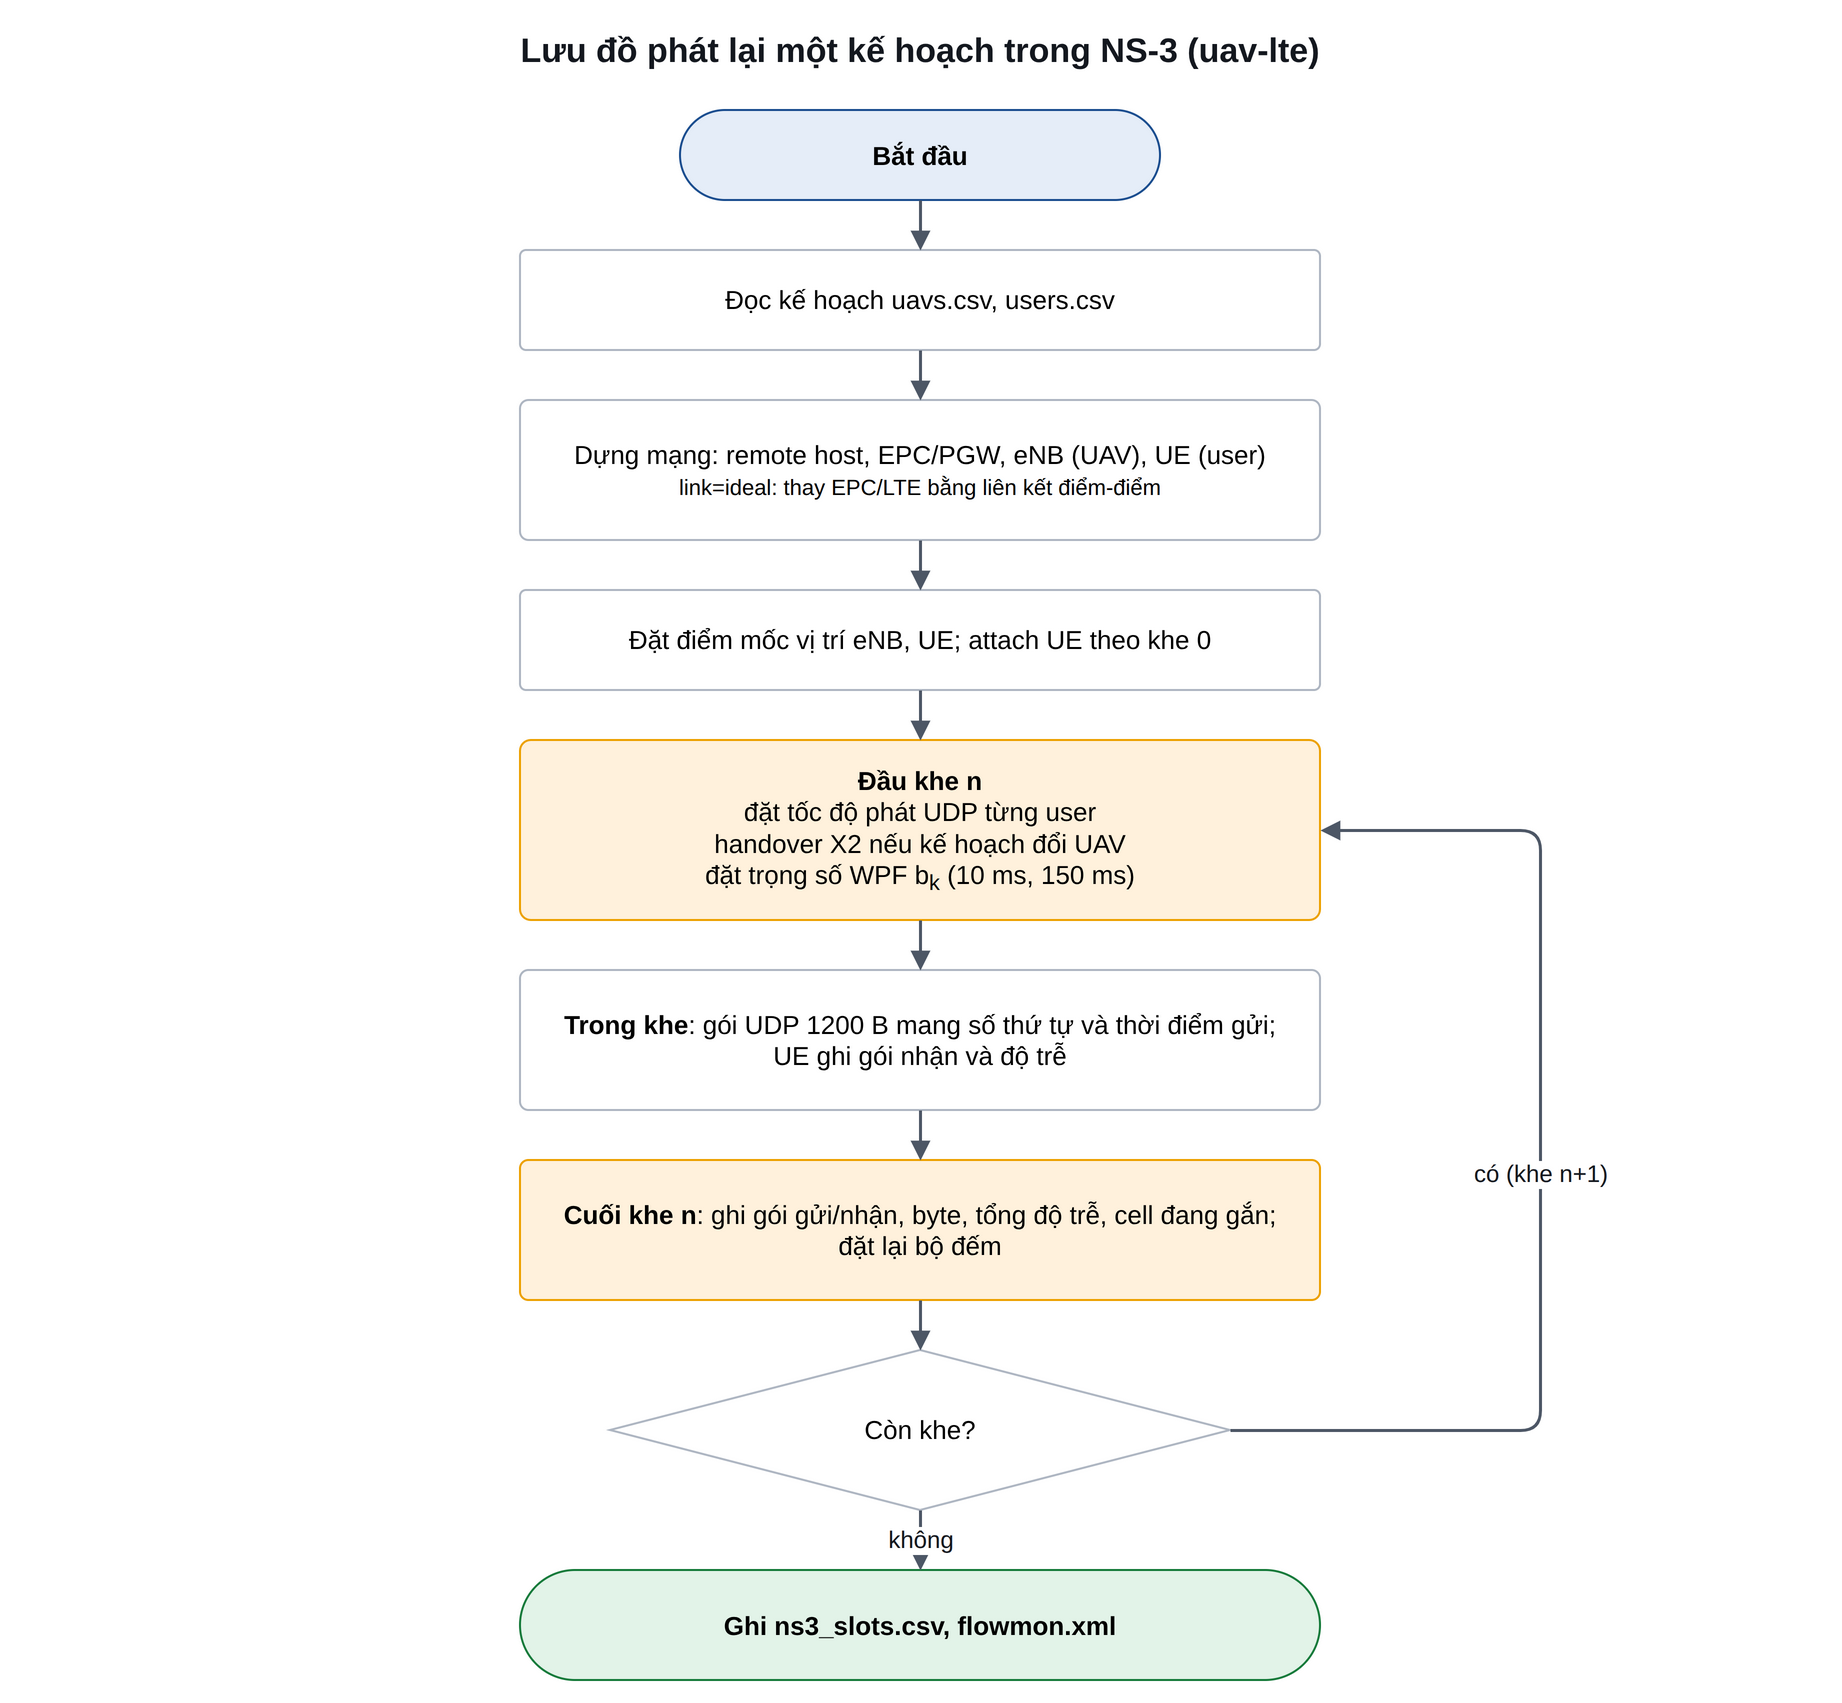
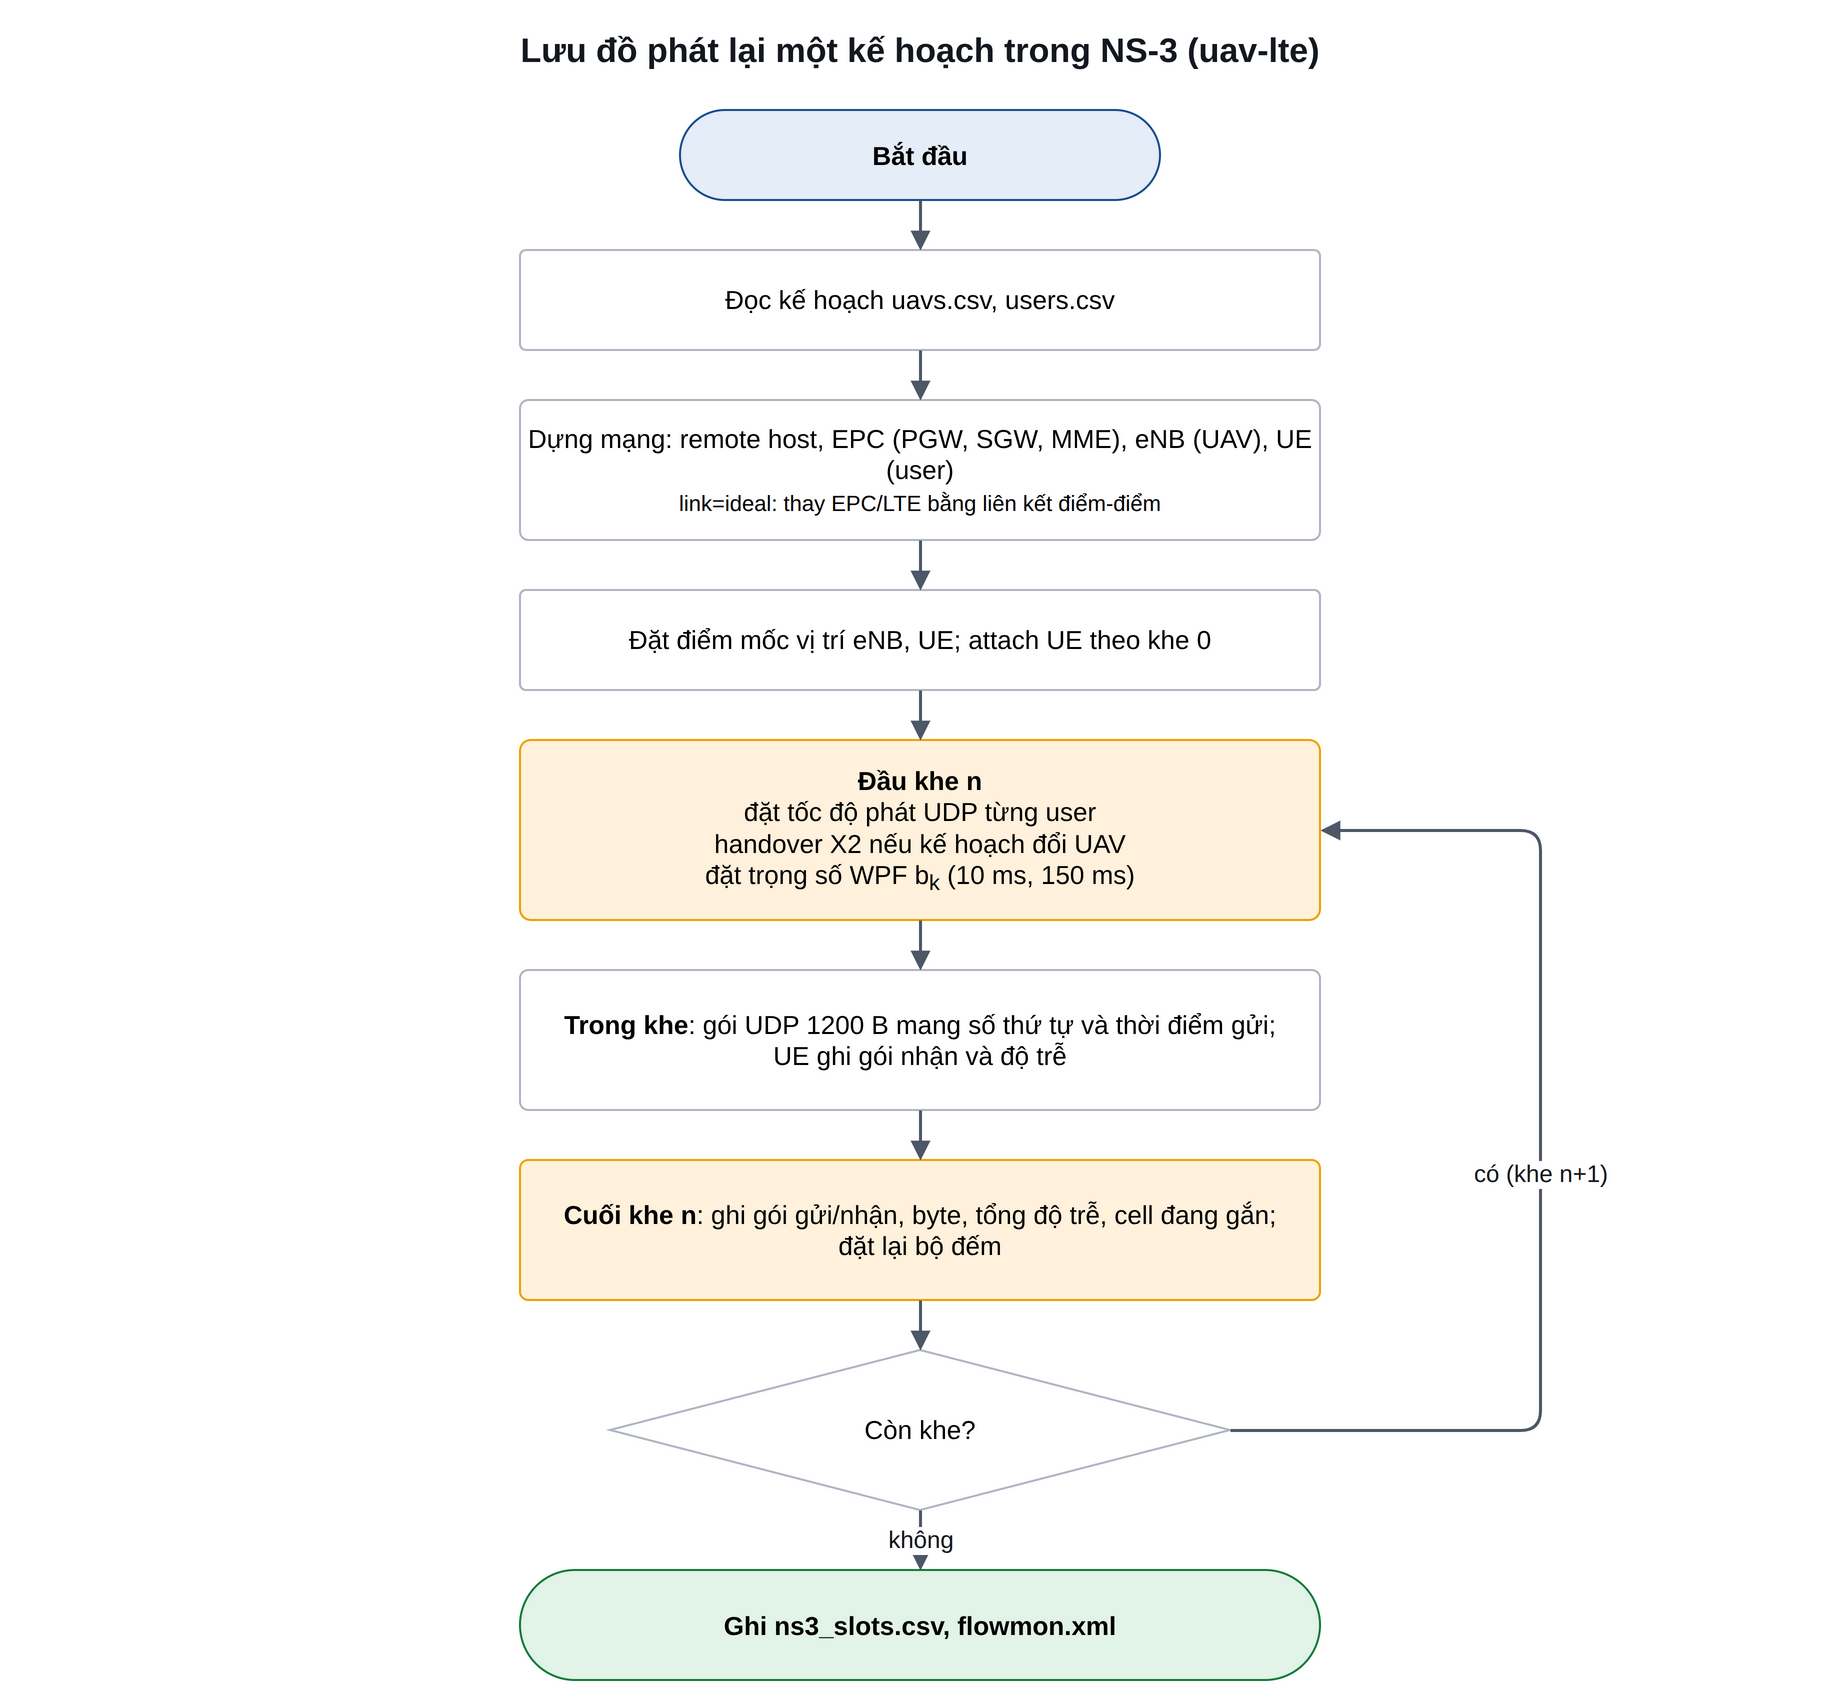
Report: center on calib-ifair; fix E6 metric; EPC nodes
- Retitle and reframe chapters 2, 6 and 7 around calib-ifair as the main
  contribution, with the NS-3 validation as supporting evidence
- E6 recomputed with the same per-slot min-throughput metric as E2/E10/E11:
  maxmin +16-18% (hover), +1-11% (kmeans), 18/18 pairs, matches theory;
  note the per-user-mean metric used in the design docs
- Describe EPC as PGW, SGW and MME; redraw protocol-stack and replay
  diagrams

Changed region(s): [[0.2785, 0.249, 0.7117, 0.3112]]

diff --git a/docs/figures/make_diagrams.py b/docs/figures/make_diagrams.py
@@ -177,7 +177,7 @@ d = D("phat_lai_ns3", 900, 860)
 d.text(0, 5, 900, 30, "Lưu đồ phát lại một kế hoạch trong NS-3 (uav-lte)", 17, bold=True)
 a0 = d.box(330, 50, 240, 45, "Bắt đầu", fill="#e5edf8", stroke=NAVY, style="rounded=1;arcSize=50;", bold=True)
 a1 = d.box(250, 120, 400, 50, "Đọc kế hoạch uavs.csv, users.csv")
-a2 = d.box(250, 195, 400, 70, "Dựng mạng: remote host, EPC/PGW, eNB (UAV), UE (user)<br>"
+a2 = d.box(250, 195, 400, 70, "Dựng mạng: remote host, EPC (PGW, SGW, MME), eNB (UAV), UE (user)<br>"
            "<font style='font-size:11px'>link=ideal: thay EPC/LTE bằng liên kết điểm-điểm</font>")
 a3 = d.box(250, 290, 400, 50, "Đặt điểm mốc vị trí eNB, UE; attach UE theo khe 0")
 a4 = d.box(250, 365, 400, 90, "<b>Đầu khe n</b><br>đặt tốc độ phát UDP từng user<br>handover X2 nếu kế hoạch đổi UAV<br>đặt trọng số WPF b<sub>k</sub> (10 ms, 150 ms)",
@@ -228,10 +228,12 @@ def stack(x, title, layers, fill, stroke):
         ids.append(d.box(x, 75 + i * 48, 220, 42, t, fill=fill, stroke=stroke))
     return ids
 rh = stack(20, "Remote host", ["Bộ phát UDP<br><font style='font-size:11px'>SeqTsHeader + 1200 B</font>", "UDP (cổng 9)", "IP 1.0.0.0/8", "Point-to-point 10 Gb/s, 1 ms"], "#e5edf8", NAVY)
-pg = stack(310, "PGW / SGW (EPC)", ["IP", "GTP-U / UDP / IP", "Point-to-point (S1-U)"], "#f6f7f9", "#aeb6c2")
+pg = stack(310, "EPC: PGW → SGW", ["IP", "GTP-U / UDP / IP", "Point-to-point (S1-U)"], "#f6f7f9", "#aeb6c2")
+mme = d.box(310, 330, 220, 42, "MME (EPC): báo hiệu,<br>không mang dữ liệu", fill="#ffffff", stroke="#aeb6c2", style="rounded=1;arcSize=6;dashed=1;")
+d.edge(mme, pg[2], "", dashed=True, arrow="none")
 en = stack(600, "eNB (UAV)", ["GTP-U / UDP / IP", "PDCP", "RLC UM, bộ đệm 1 MiB", "MAC: scheduler PF / RR / <b>WPF (b<sub>k</sub>)</b>", "PHY: AMC, HARQ"], "#fff1dc", AMBER)
 ue = stack(890, "UE (user)", ["UDP server: đo độ trễ, mất gói", "UDP / IP 7.0.0.0/8", "PDCP / RLC", "MAC", "PHY"], "#e2f3e8", "#157a3a")
-d.edge(rh[3], pg[2], "", width=2)
+d.edge(rh[3], pg[2], "", width=2, exit=(1, 0.5), entry=(0, 0.5))
 d.edge(pg[2], en[0], "GTP-U", width=2, exit=(1, 0.5), entry=(0, 0.5))
 d.edge(en[4], ue[4], "vô tuyến LTE<br>kênh Al-Hourani", width=2)
 x2 = d.box(600, 360, 220, 42, "eNB khác", fill="#fff1dc", stroke=AMBER)

diff --git a/docs/THIET_KE_MO_PHONG.md b/docs/THIET_KE_MO_PHONG.md
@@ -1503,12 +1503,15 @@ equal cho số đo NS-3 giống hệt nhau.
 So với `*-equal` trong `experiments/results/ns3-demand-lte` (scheduler PF, trùng với `wpf` vì trọng số bằng nhau trong mỗi
 cell), cùng seed và cùng lưu lượng. 42 run, khoảng 20 phút. Số liệu ghép cặp: `ns3-demand-wpf/paired_vs_equal.json`.
 
+Trong bảng này, "min thr" là throughput trung bình (cả lần chạy) của user kém nhất. Báo cáo dùng định nghĩa khác: trung
+bình theo khe của throughput nhỏ nhất trong khe (xem `BAO_CAO_DU_AN.md` mục 6.7).
+
 | | Mbps/user | Min thr equal → maxmin | Phân vị 10% | Thr tổng | Mất gói | Delay |
 |---|---|---|---|---|---|---|
 | hover | 1 | 0.58 → **0.70** (+21%, 3/3 seed) | 0.74 → 0.80 | 18.5 → 19.0 | 7.4% → 5.1% | 1267 → 883 ms |
 | hover | 2 | 0.30 → **0.36** (+20%, 3/3) | 0.48 → 0.54 | 22.6 → 22.4 | 43.4% → 43.9% | 4663 → 5142 ms |
 | hover | 4 | 0.26 → **0.30** (+15%, 3/3) | 0.33 → 0.41 | 27.8 → 26.5 | 65.2% → 66.9% | 5491 → 5851 ms |
-| kmeans | 1–4 | thay đổi < 2%, lẫn lộn theo seed | ≈ | ≈ | ≈ | ≈ |
+| kmeans | 1–4 | thay đổi < 2%, lẫn lộn theo seed (theo min mỗi khe: +1% / +10% / +11% ở 1 / 2 / 4 Mbps) | ≈ | ≈ | ≈ | ≈ |
 
 **So với dự đoán của lý thuyết paper** (cùng cặp maxmin / equal, Shannon, chia tĩnh):
 
@@ -1521,7 +1524,7 @@ cell), cùng seed và cùng lưu lượng. 42 run, khoảng 20 phút. Số liệ
 
 **Kết luận:**
 1. **Cấp phát băng thông không vô dụng: nó cần được áp ở đúng tầng.** Áp ở tầng MAC thì maxmin nâng user kém nhất
-   15–21% ở cả 3/3 seed, đúng như lý thuyết dự đoán (+18%). Áp ở tầng ứng dụng thì hoàn toàn không có tác dụng.
+   15–21% ở cả 3/3 seed (min tính trên throughput trung bình của từng user; nếu tính theo khe như báo cáo thì +16–18%), đúng như lý thuyết dự đoán (+18%). Áp ở tầng ứng dụng thì hoàn toàn không có tác dụng.
 2. **Hiệu quả phụ thuộc mức chênh lệch kênh giữa các user.** Với hover, user trong một cell có SINR rất khác nhau, nên
    maxmin có tác dụng rõ. Với kmeans, UAV đã bay về giữa cụm, SINR các user gần nhau nên b_k gần như bằng nhau, và
    maxmin gần như không khác equal. Lý thuyết cũng dự đoán đúng điều này.
@@ -1537,7 +1540,7 @@ cell), cùng seed và cùng lưu lượng. 42 run, khoảng 20 phút. Số liệ
 | Di chuyển UAV về tâm cụm cải thiện mạnh rate và công bằng | **Đúng.** Min throughput khoảng 2.2×, Jain khoảng 1.5× (5/5 seed) |
 | Nhiễu đồng kênh có thể làm giảm lợi ích khi thêm UAV | **Phù hợp.** 1/5 seed hover có tổng throughput cao hơn kmeans |
 | Giá trị rate tuyệt đối | **Lạc quan.** LTE chỉ đạt 75–78% công thức 36.942. Đã kiểm chứng (14.4): nguyên nhân là ánh xạ SINR → throughput của LTE (α 0.40, trần 3.51 so với 0.6, 4.4). Hiệu chỉnh hai hằng số này thì mô hình khớp NS-3 ±2% |
-| maxmin tăng min rate, đổi lại giảm nhẹ sum rate | **Phụ thuộc tầng áp dụng.** Chỉ áp ở tầng ứng dụng: gần như không còn đúng (min +6% ở tải thấp nhưng delay ×2.3; ở tải cao trùng equal). Áp ở tầng MAC bằng `wpf` (14.7): **đúng**, min +15–21% (3/3 seed) khớp dự đoán +18%; ở tải cao tổng giảm tới 5%, nhiều hơn lý thuyết nói |
+| maxmin tăng min rate, đổi lại giảm nhẹ sum rate | **Phụ thuộc tầng áp dụng.** Chỉ áp ở tầng ứng dụng: gần như không còn đúng (min +6% ở tải thấp nhưng delay ×2.3; ở tải cao trùng equal). Áp ở tầng MAC bằng `wpf` (14.7): **đúng**, min +15–21% (3/3 seed) (min tính trên throughput trung bình của từng user; nếu tính theo khe như báo cáo thì +16–18%) khớp dự đoán +18%; ở tải cao tổng giảm tới 5%, nhiều hơn lý thuyết nói |
 | (mô hình không có) delay, mất gói | NS-3 cho thấy cần hệ số an toàn khoảng 0.5–0.6 để delay giữ ở mức chục ms |
 | Delay, mất gói theo hàng đợi Lyapunov (14.6, lý thuyết paper) | **Quá lạc quan:** delay thấp hơn 3–8 lần, mất gói thấp hơn nhiều; xếp hạng kmeans > hover vẫn đúng. Thêm ánh xạ LTE thì sai số mất gói còn khoảng 4 điểm %, delay ×1.3 |
 | (đề xuất) chia băng theo SE LTE có nhiễu + tinh chỉnh vị trí (14.10) | **Đứng vững:** min throughput ×1.92–2.03 ở tải ≥ 2 Mbps/user (3/3 seed), throughput tổng giữ trong ±4% |

diff --git a/docs/KHUNG_BAO_CAO.md b/docs/KHUNG_BAO_CAO.md
@@ -5,6 +5,10 @@ và hình nào đặt ở đâu, chú thích hình, và câu kết luận mà ch
 trong `experiments/results/` (đối chiếu lần cuối ngày 17/11/2026). Nội dung chi tiết để chép và biên tập lại nằm ở
 [`BAO_CAO_DU_AN.md`](BAO_CAO_DU_AN.md); tài liệu này chỉ chỉ ra *cần lấy gì, đặt ở đâu*.
 
+**Trọng tâm của báo cáo:** thuật toán calib-ifair (cấp phát có ưu tiên người dùng) và bằng chứng ở mức gói tin rằng nó
+tốt hơn baseline. Mô hình, NS-3, kiểm chứng ba tầng, scheduler WPF và trạm điều khiển là công cụ phục vụ mục tiêu đó.
+Mọi chương nên kể theo mạch này.
+
 **Quy ước chung**
 
 - Báo cáo không quá 100 trang A4, không chứa code; dùng mã giả, lưu đồ, công thức và bảng. Dòng lệnh chỉ để ở phụ lục
@@ -45,8 +49,8 @@ báo cáo), không ghi chung chung.
 
 ## Chương 2. Tính cấp thiết và ý nghĩa
 
-**Phải chứng minh:** có một khoảng trống thật giữa các bài báo (chỉ tính bằng Shannon) và mạng thật (giao thức LTE),
-và nhóm lấp khoảng trống đó.
+**Phải chứng minh:** cần một thuật toán ưu tiên được user quan trọng (heuristic hiện có coi mọi user như nhau, quyết
+định theo SNR không nhiễu), và cải tiến thuật toán phải được chứng minh ở mức gói tin vì lý thuyết Shannon lạc quan.
 
 | Mục | Nội dung |
 |---|---|
@@ -300,17 +304,17 @@ hình hiệu chỉnh dự đoán NS-3 với sai số khoảng ±3%.
 
 ### 6.7. Chia băng ở tầng MAC (E6)
 
-**Bảng 6.10. maxmin với WPF so với equal (số đo, 3 seed).**
+**Bảng 6.10. maxmin với WPF so với equal (số đo, 3 seed; trong ngoặc: lý thuyết dự đoán).**
 
 | | Mbps/user | Min throughput equal → maxmin | Throughput tổng |
 |---|---|---|---|
-| hover | 1 | 0.58 → 0.70 (+21%, 3/3) | 18.5 → 19.0 |
-| hover | 2 | 0.30 → 0.36 (+20%, 3/3) | 22.6 → 22.4 |
-| hover | 4 | 0.26 → 0.30 (+15%, 3/3) | 27.8 → 26.5 |
-| kmeans | 1–4 | thay đổi < 2% | gần như không đổi |
+| hover | 1 | 0.57 → 0.67 (+18%, 3/3; dự đoán +18%) | 18.5 → 19.0 |
+| hover | 4 | 0.26 → 0.30 (+16%, 3/3; dự đoán +18%) | 27.8 → 26.5 |
+| kmeans | 1 | 0.84 → 0.85 (+1%, 3/3; dự đoán +2%) | 19.6 → 19.6 |
+| kmeans | 4 | 0.67 → 0.74 (+11%, 3/3; dự đoán +11%) | 49.9 → 49.7 |
 
-**Kết luận:** lý thuyết dự đoán +18%, WPF đo được +15–21%. Chia băng có tác dụng **chỉ khi áp ở tầng MAC**; ở tầng ứng
-dụng thì PF xóa mất (mục 6.3).
+**Kết luận:** maxmin thắng ở cả 18 cặp, mức tăng bám sát lý thuyết. Chia băng có tác dụng **chỉ khi áp ở tầng MAC**; ở
+tầng ứng dụng thì PF xóa mất (mục 6.3). Với kmeans, tác dụng chỉ rõ khi mạng đã nghẽn.
 
 ### 6.8. Kiểm chứng ba tầng (E7)
 
@@ -576,7 +580,7 @@ chiếu lại với bản gốc, và nên bổ sung vài bài báo gần đây (
 | 15 | Vì sao chênh lệch | Shannon → 3GPP → trần → AMC; NS-3 bằng 25–40% Shannon | Hình 11 |
 | 16 | Độ trễ, mất gói | Lý thuyết lạc quan 3–9 lần; ba nguyên nhân | Hình 12 |
 | 17 | Ba tầng | Lý thuyết khớp NS-3 lý tưởng dưới 1% | Hình 13 |
-| 18 | Chia băng ở tầng MAC | WPF tăng min throughput 15–21% | |
+| 18 | Chia băng ở tầng MAC | WPF tăng min throughput 16–18% (hover), khớp dự đoán | |
 | 18b | Thuật toán đề xuất | Tính nhiễu khi chia băng, áp ở MAC; min ×2 trên NS-3 LTE | Hình 15 |
 | 18c | Ba nhóm user | Critical đạt QoS 96–97% so với 59–69% (không biết nhóm) và 86–87% (max-min có trọng số); tổng giảm 4–12%; LTE hay Shannon như nhau | Hình 16 |
 | 19 | Demo | Dashboard và Gazebo, lái tay | Hình 6, 7 |

diff --git a/docs/HUONG_DAN_CHAY.md b/docs/HUONG_DAN_CHAY.md
@@ -593,7 +593,7 @@ cell), cùng seed và cùng lưu lượng. 42 run, khoảng 20 phút. Số liệ
 | hover | 1 | 0.58 → **0.70** (+21%, 3/3 seed) | 0.74 → 0.80 | 18.5 → 19.0 | 7.4% → 5.1% | 1267 → 883 ms |
 | hover | 2 | 0.30 → **0.36** (+20%, 3/3) | 0.48 → 0.54 | 22.6 → 22.4 | 43.4% → 43.9% | 4663 → 5142 ms |
 | hover | 4 | 0.26 → **0.30** (+15%, 3/3) | 0.33 → 0.41 | 27.8 → 26.5 | 65.2% → 66.9% | 5491 → 5851 ms |
-| kmeans | 1–4 | thay đổi < 2%, lẫn lộn theo seed | ≈ | ≈ | ≈ | ≈ |
+| kmeans | 1–4 | thay đổi < 2%, lẫn lộn theo seed (theo min mỗi khe: +1% / +10% / +11% ở 1 / 2 / 4 Mbps) | ≈ | ≈ | ≈ | ≈ |
 
 **So với dự đoán của lý thuyết paper** (cùng cặp maxmin / equal, Shannon, chia tĩnh):
 
@@ -606,7 +606,7 @@ cell), cùng seed và cùng lưu lượng. 42 run, khoảng 20 phút. Số liệ
 
 **Kết luận:**
 1. **Cấp phát băng thông không vô dụng: nó cần được áp ở đúng tầng.** Áp ở tầng MAC thì maxmin nâng user kém nhất
-   15–21% ở cả 3/3 seed, đúng như lý thuyết dự đoán (+18%). Áp ở tầng ứng dụng thì hoàn toàn không có tác dụng.
+   15–21% ở cả 3/3 seed (min tính trên throughput trung bình của từng user; nếu tính theo khe như báo cáo thì +16–18%), đúng như lý thuyết dự đoán (+18%). Áp ở tầng ứng dụng thì hoàn toàn không có tác dụng.
 2. **Hiệu quả phụ thuộc mức chênh lệch kênh giữa các user.** Với hover, user trong một cell có SINR rất khác nhau, nên
    maxmin có tác dụng rõ. Với kmeans, UAV đã bay về giữa cụm, SINR các user gần nhau nên b_k gần như bằng nhau, và
    maxmin gần như không khác equal. Lý thuyết cũng dự đoán đúng điều này.
